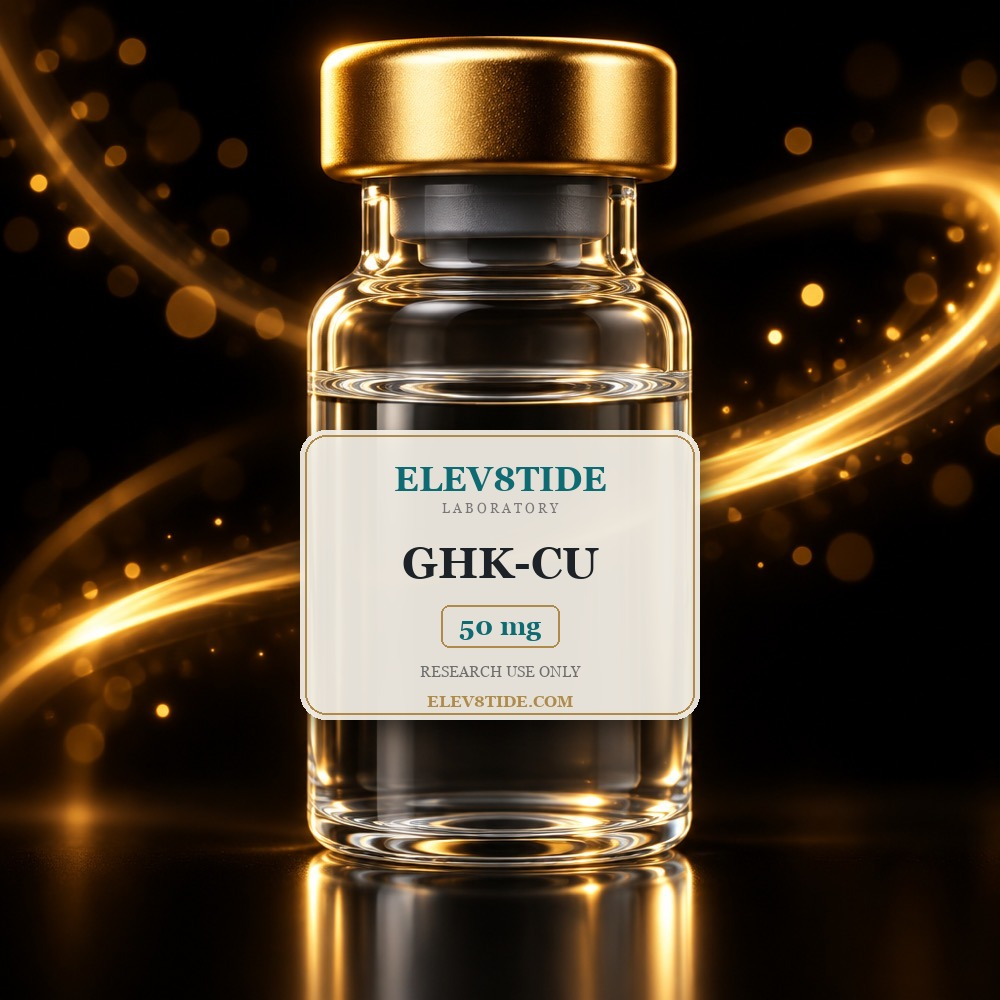
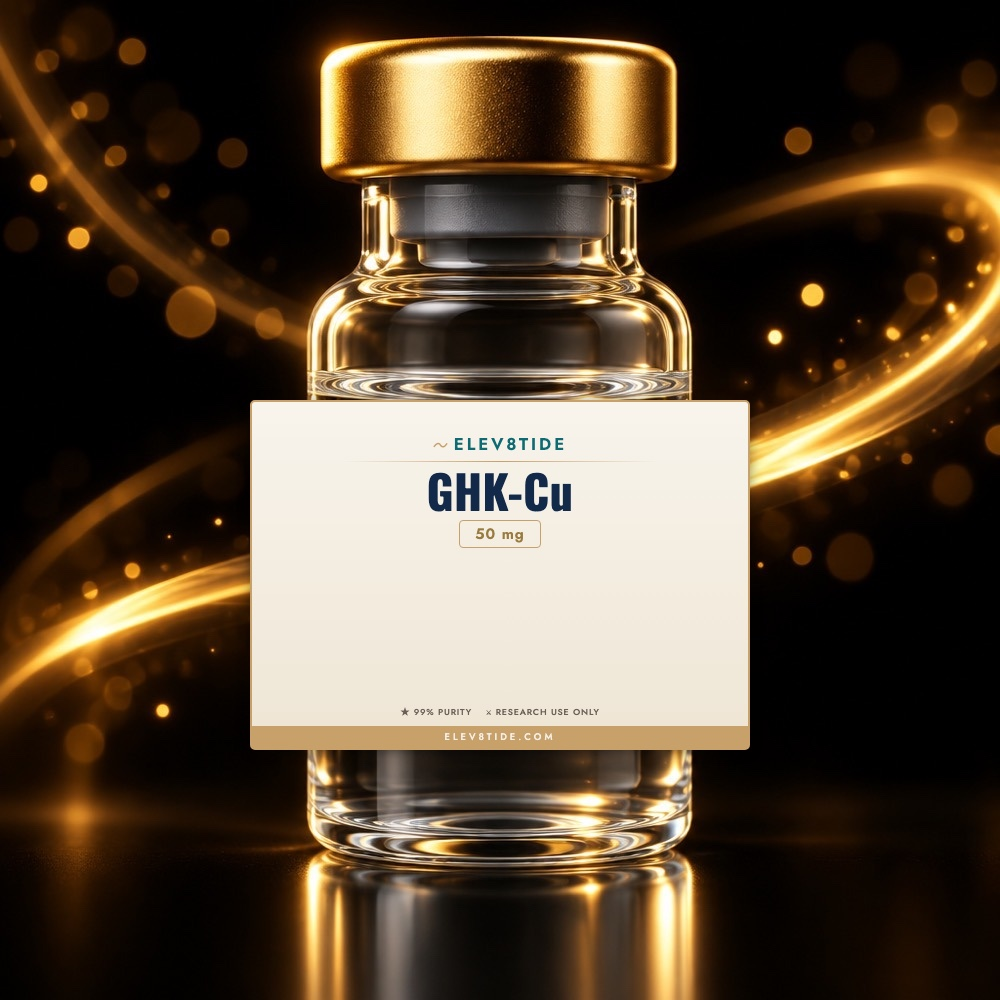
shop: swap in fresh vial renders for all 6 stacks; drop dead Mailchimp refs (leads->Supabase); contact -> hello@elev8tide.com / (954) 830-8252

Changed region(s): [[0.248, 0.372, 0.775, 0.775]]

diff --git a/lab.html b/lab.html
@@ -462,32 +462,32 @@ body{font-family:'Jost',sans-serif;background:#05090C;color:var(--ink);overflow:
 <script>
 /* ===================== DATA ===================== */
 var GOALS=[
-  {name:'The Complete Stack', focus:'Every research category in one', img:'img/stack-complete.jpg', products:[
-    {n:'The Complete Elev8 Stack', f:'Tirz + NAD+ + GHK-Cu + Glutathione + Bac Water', p:549, reg:695, img:'img/stack-complete.jpg'}
+  {name:'The Complete Stack', focus:'Every research category in one', img:'img/v-complete.jpg', products:[
+    {n:'The Complete Elev8 Stack', f:'Tirz + NAD+ + GHK-Cu + Glutathione + Bac Water', p:549, reg:695, img:'img/v-complete.jpg'}
   ]},
-  {name:'Metabolic', focus:'Weight & metabolic research', img:'img/stack-weight.jpg', products:[
-    {n:'Weight & Metabolic Stack', f:'Tirzepatide + Tesamorelin + Bac Water', p:269, reg:315, img:'img/stack-weight.jpg'},
-    {n:'Advanced Metabolic Stack', f:'Retatrutide + Tesamorelin + Bac Water', p:369, reg:440, img:'img/stack-weightadv.jpg'},
+  {name:'Metabolic', focus:'Weight & metabolic research', img:'img/v-weight.jpg', products:[
+    {n:'Weight & Metabolic Stack', f:'Tirzepatide + Tesamorelin + Bac Water', p:269, reg:315, img:'img/v-weight.jpg'},
+    {n:'Advanced Metabolic Stack', f:'Retatrutide + Tesamorelin + Bac Water', p:369, reg:440, img:'img/v-advanced.jpg'},
     {n:'Tirzepatide', f:'Research-grade · 10–30mg', p:150, img:'img/v-tirzepatide.jpg'},
     {n:'Retatrutide', f:'Research-grade · 10–30mg', p:175, img:'img/v-retatrutide.jpg'}
   ]},
-  {name:'Energy & Performance', focus:'Focus, drive & output research', img:'img/stack-energy.jpg', products:[
-    {n:'Energy & Performance Stack', f:'MOTS-C + NAD+ + Semax', p:275, reg:325, img:'img/stack-energy.jpg'},
+  {name:'Energy & Performance', focus:'Focus, drive & output research', img:'img/v-energy.jpg', products:[
+    {n:'Energy & Performance Stack', f:'MOTS-C + NAD+ + Semax', p:275, reg:325, img:'img/v-energy.jpg'},
     {n:'Tesamorelin', f:'10mg', p:90, img:'img/v-tesamorelin.jpg'},
     {n:'MOTS-C', f:'10mg', p:80, img:'img/v-motsc.jpg'},
     {n:'NAD+', f:'500mg', p:150, img:'img/v-nad.jpg'},
     {n:'Semax', f:'10mg', p:95, img:'img/v-semax.jpg'}
   ]},
-  {name:'Anti-Aging & Beauty', focus:'Skin, hair & longevity research', img:'img/stack-beauty.jpg', products:[
-    {n:'Beauty & Anti-Aging Stack', f:'GHK-Cu + Glutathione + Bac Water', p:289, reg:345, img:'img/stack-beauty.jpg'},
+  {name:'Anti-Aging & Beauty', focus:'Skin, hair & longevity research', img:'img/v-beauty.jpg', products:[
+    {n:'Beauty & Anti-Aging Stack', f:'GHK-Cu + Glutathione + Bac Water', p:289, reg:345, img:'img/v-beauty.jpg'},
     {n:'GHK-Cu', f:'50mg', p:120, img:'img/v-ghkcu.jpg'},
     {n:'Glutathione', f:'1500mg', p:200, img:'img/v-glutathione.jpg'}
   ]},
-  {name:'Recovery & Healing', focus:'Repair & recovery research', img:'img/stack-recovery.jpg', products:[
-    {n:'Recovery & Healing Stack', f:'BPC-157 + NAD+ + Bac Water', p:225, reg:265, img:'img/stack-recovery.jpg'},
+  {name:'Recovery & Healing', focus:'Repair & recovery research', img:'img/v-recovery.jpg', products:[
+    {n:'Recovery & Healing Stack', f:'BPC-157 + NAD+ + Bac Water', p:225, reg:265, img:'img/v-recovery.jpg'},
     {n:'BPC-157', f:'10mg', p:90, img:'img/v-bpc157.jpg'}
   ]},
-  {name:'Supplies', focus:'Research essentials', img:'img/stack-complete.jpg', products:[
+  {name:'Supplies', focus:'Research essentials', img:'img/v-complete.jpg', products:[
     {n:'Bacteriostatic Water', f:'30ml', p:25, img:'img/v-bacwater.jpg'}
   ]}
 ];

diff --git a/index.html b/index.html
@@ -349,7 +349,7 @@ h1 i{color:var(--gold2);font-weight:500}
     <div class="rdivider"></div>
     <button class="btn" id="btnYes" onclick="done('a')">Yes — Have A Specialist Reach Out</button>
     <button class="btn ghost" onclick="done('b')">No — Just Add Me To The List</button>
-    <div class="legal">For laboratory &amp; research purposes only · not for human consumption · not for personal use · not intended to diagnose, treat, cure, or prevent any disease · 21+.<br>Elev8Tide Wellness LLC · info@elev8tide.com</div>
+    <div class="legal">For laboratory &amp; research purposes only · not for human consumption · not for personal use · not intended to diagnose, treat, cure, or prevent any disease · 21+.<br>Elev8Tide Wellness LLC · hello@elev8tide.com</div>
   </div></div>
 </section>
 
@@ -369,19 +369,6 @@ h1 i{color:var(--gold2);font-weight:500}
 
 </div>
 <script>
-/* ══════════════════════════════════════════════════════════════
-   MAILCHIMP CONFIG — drop in the 3 PUBLIC values from Nashay's account
-   (Mailchimp → Audience → Signup forms → Embedded form → copy from the code).
-   NO API key needed — these are public. Until filled, leads still save
-   locally + are emailed via the mailto fallback, so nothing is ever lost.
-   ══════════════════════════════════════════════════════════════ */
-var MAILCHIMP = {
-  u:  '2e10d32ce7b71c8c7367b60ea',   // the u=XXXXX value in the form action URL
-  id: '354d431fde',   // the id=YYYYY value in the form action URL
-  dc: 'gmail.us17'    // the datacenter prefix before .list-manage.com
-};
-var NOTIFY_EMAIL = 'info@nashayconsulting.com'; // fallback: where leads are emailed if Mailchimp not configured
-
 /* collected lead */
 var lead={firstName:'',email:'',phone:'',goal:'',q2:'',q3:'',q4:'',q5:'',wantsCall:''};
 var histStack=[], busy=false;

diff --git a/legal.html b/legal.html
@@ -55,12 +55,12 @@ ul{padding-left:20px}
  <h2 class="serif">3. Privacy Policy</h2>
  <p><b>What we collect.</b> When you complete the discovery, we collect the information you provide — your first name, email address, phone number, and your questionnaire responses.</p>
  <p><b>How we use it.</b> We use your information to contact you about your wellness discovery, to send you occasional updates you opt into, and to help a specialist follow up with you personally. Your responses help us understand your goals.</p>
- <p><b>Email &amp; messaging.</b> Email communications are managed through our email provider (Mailchimp). You can unsubscribe at any time using the link in any email.</p>
+ <p><b>Email &amp; messaging.</b> Email communications are managed through a secure third-party email service provider. You can unsubscribe at any time using the link in any email.</p>
  <p><b>We never sell your information.</b> Your details are kept private and are never sold or shared with unrelated third parties.</p>
  <p><b>Your choices.</b> You may request access to, correction of, or deletion of your information at any time by contacting us.</p>
 
  <h2 class="serif">4. Contact</h2>
- <p>Questions about these terms or your information? Reach us at <a href="mailto:info@nashayconsulting.com">info@nashayconsulting.com</a> or (954) 762-0266.</p>
+ <p>Questions about these terms or your information? Reach us at <a href="mailto:hello@elev8tide.com">hello@elev8tide.com</a> or (954) 830-8252.</p>
 
  <div class="foot">
   For laboratory &amp; research purposes only · Not for human consumption · 21+<br>
